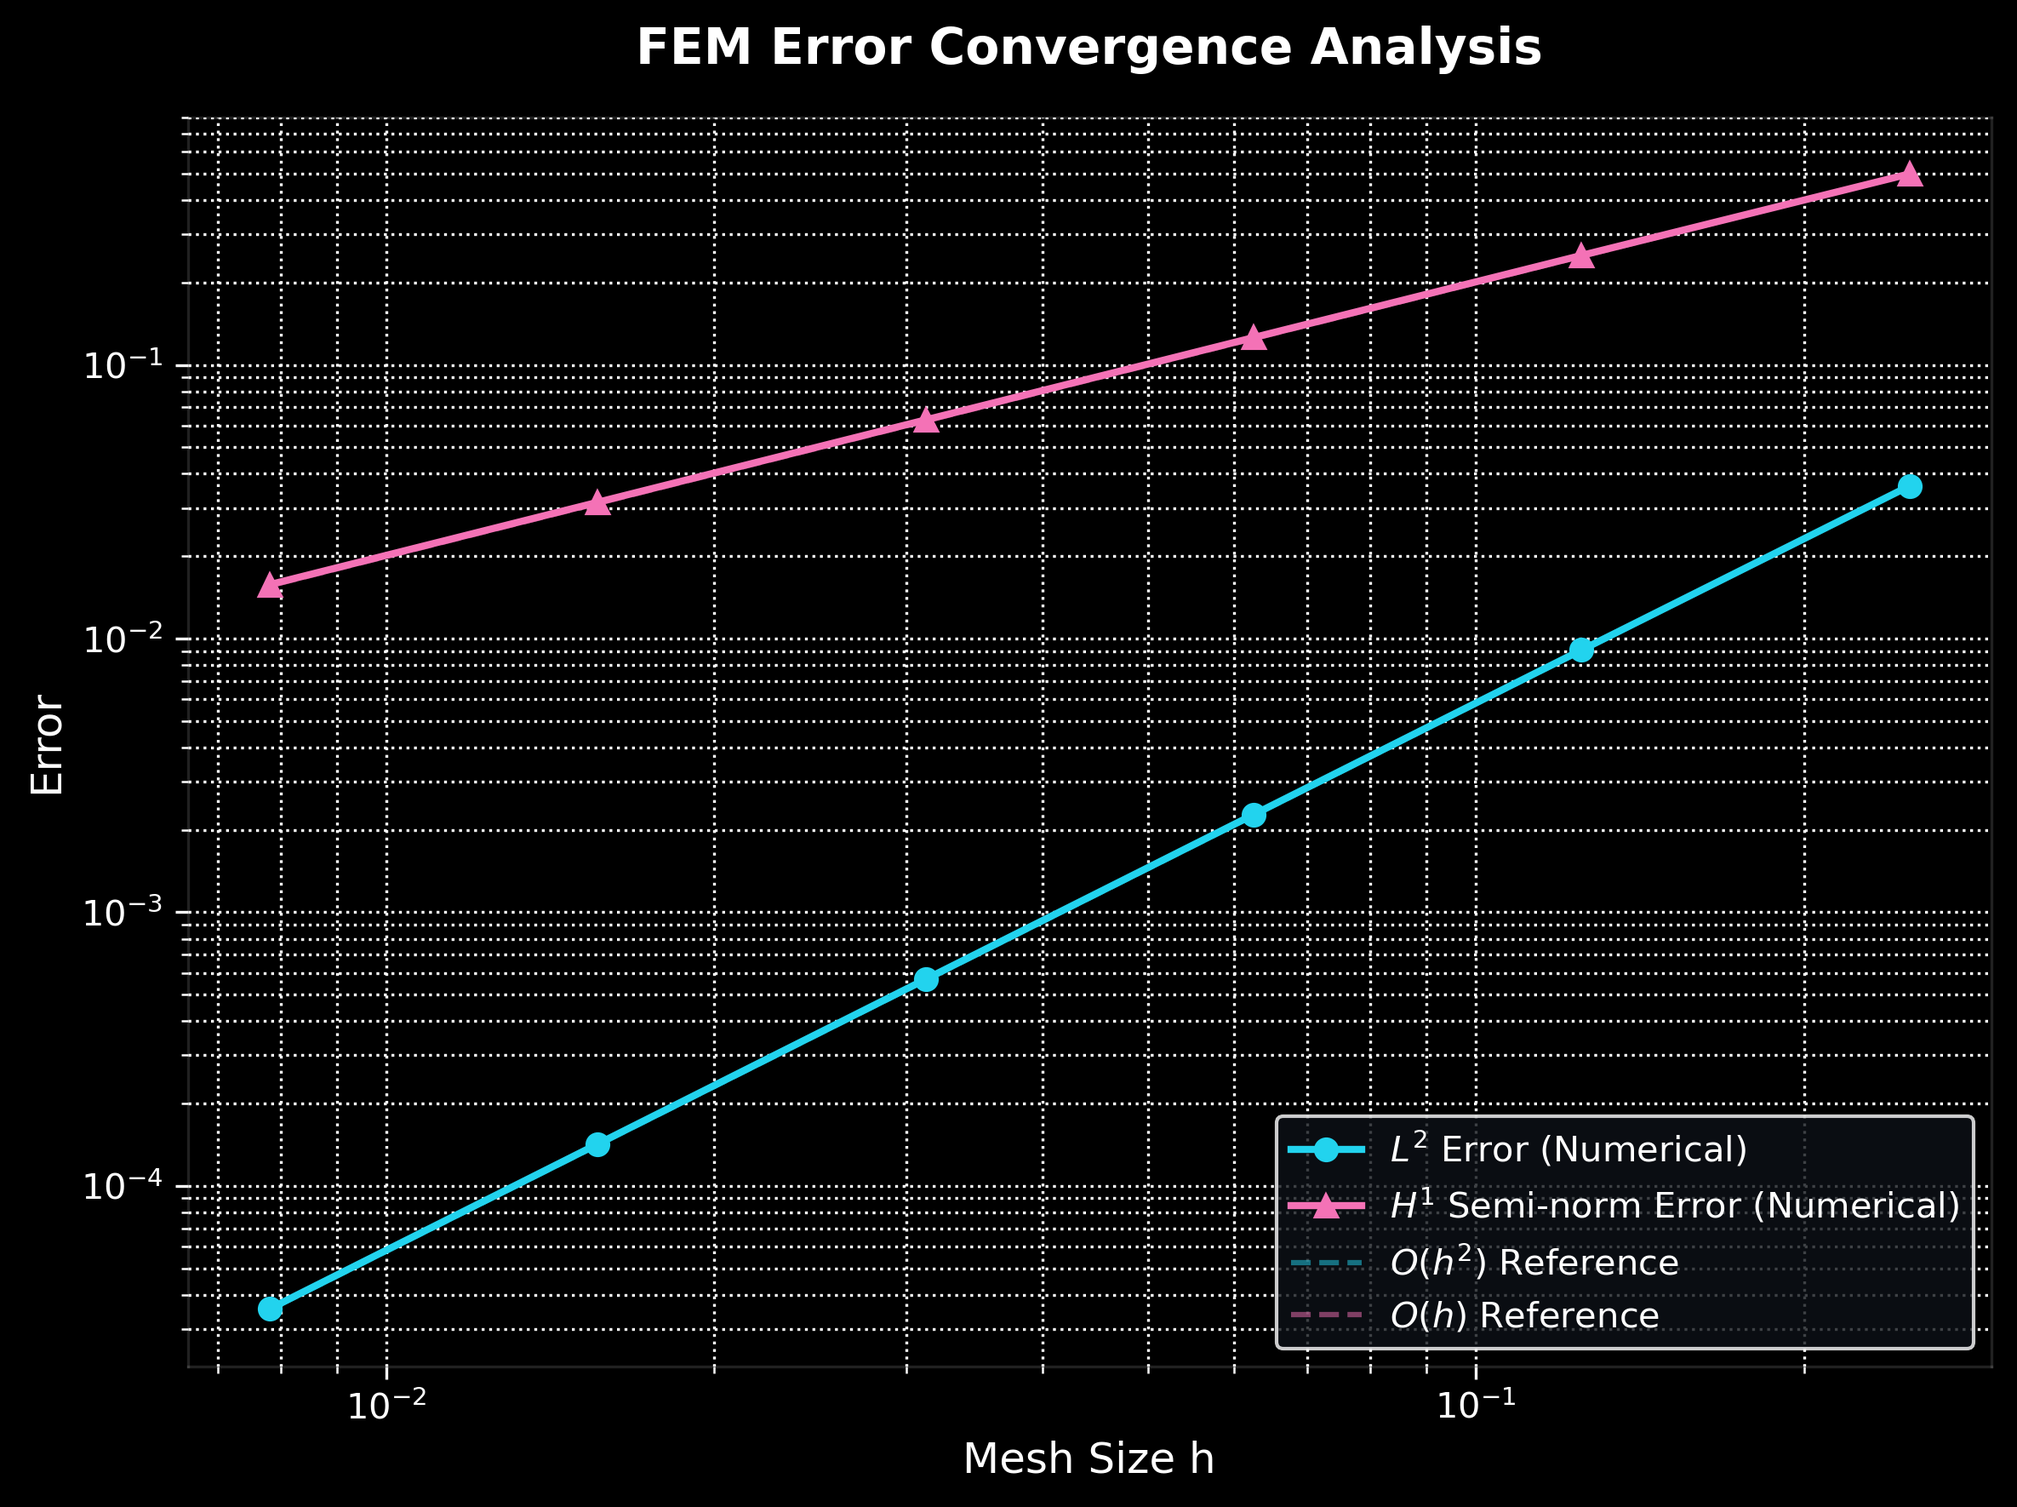
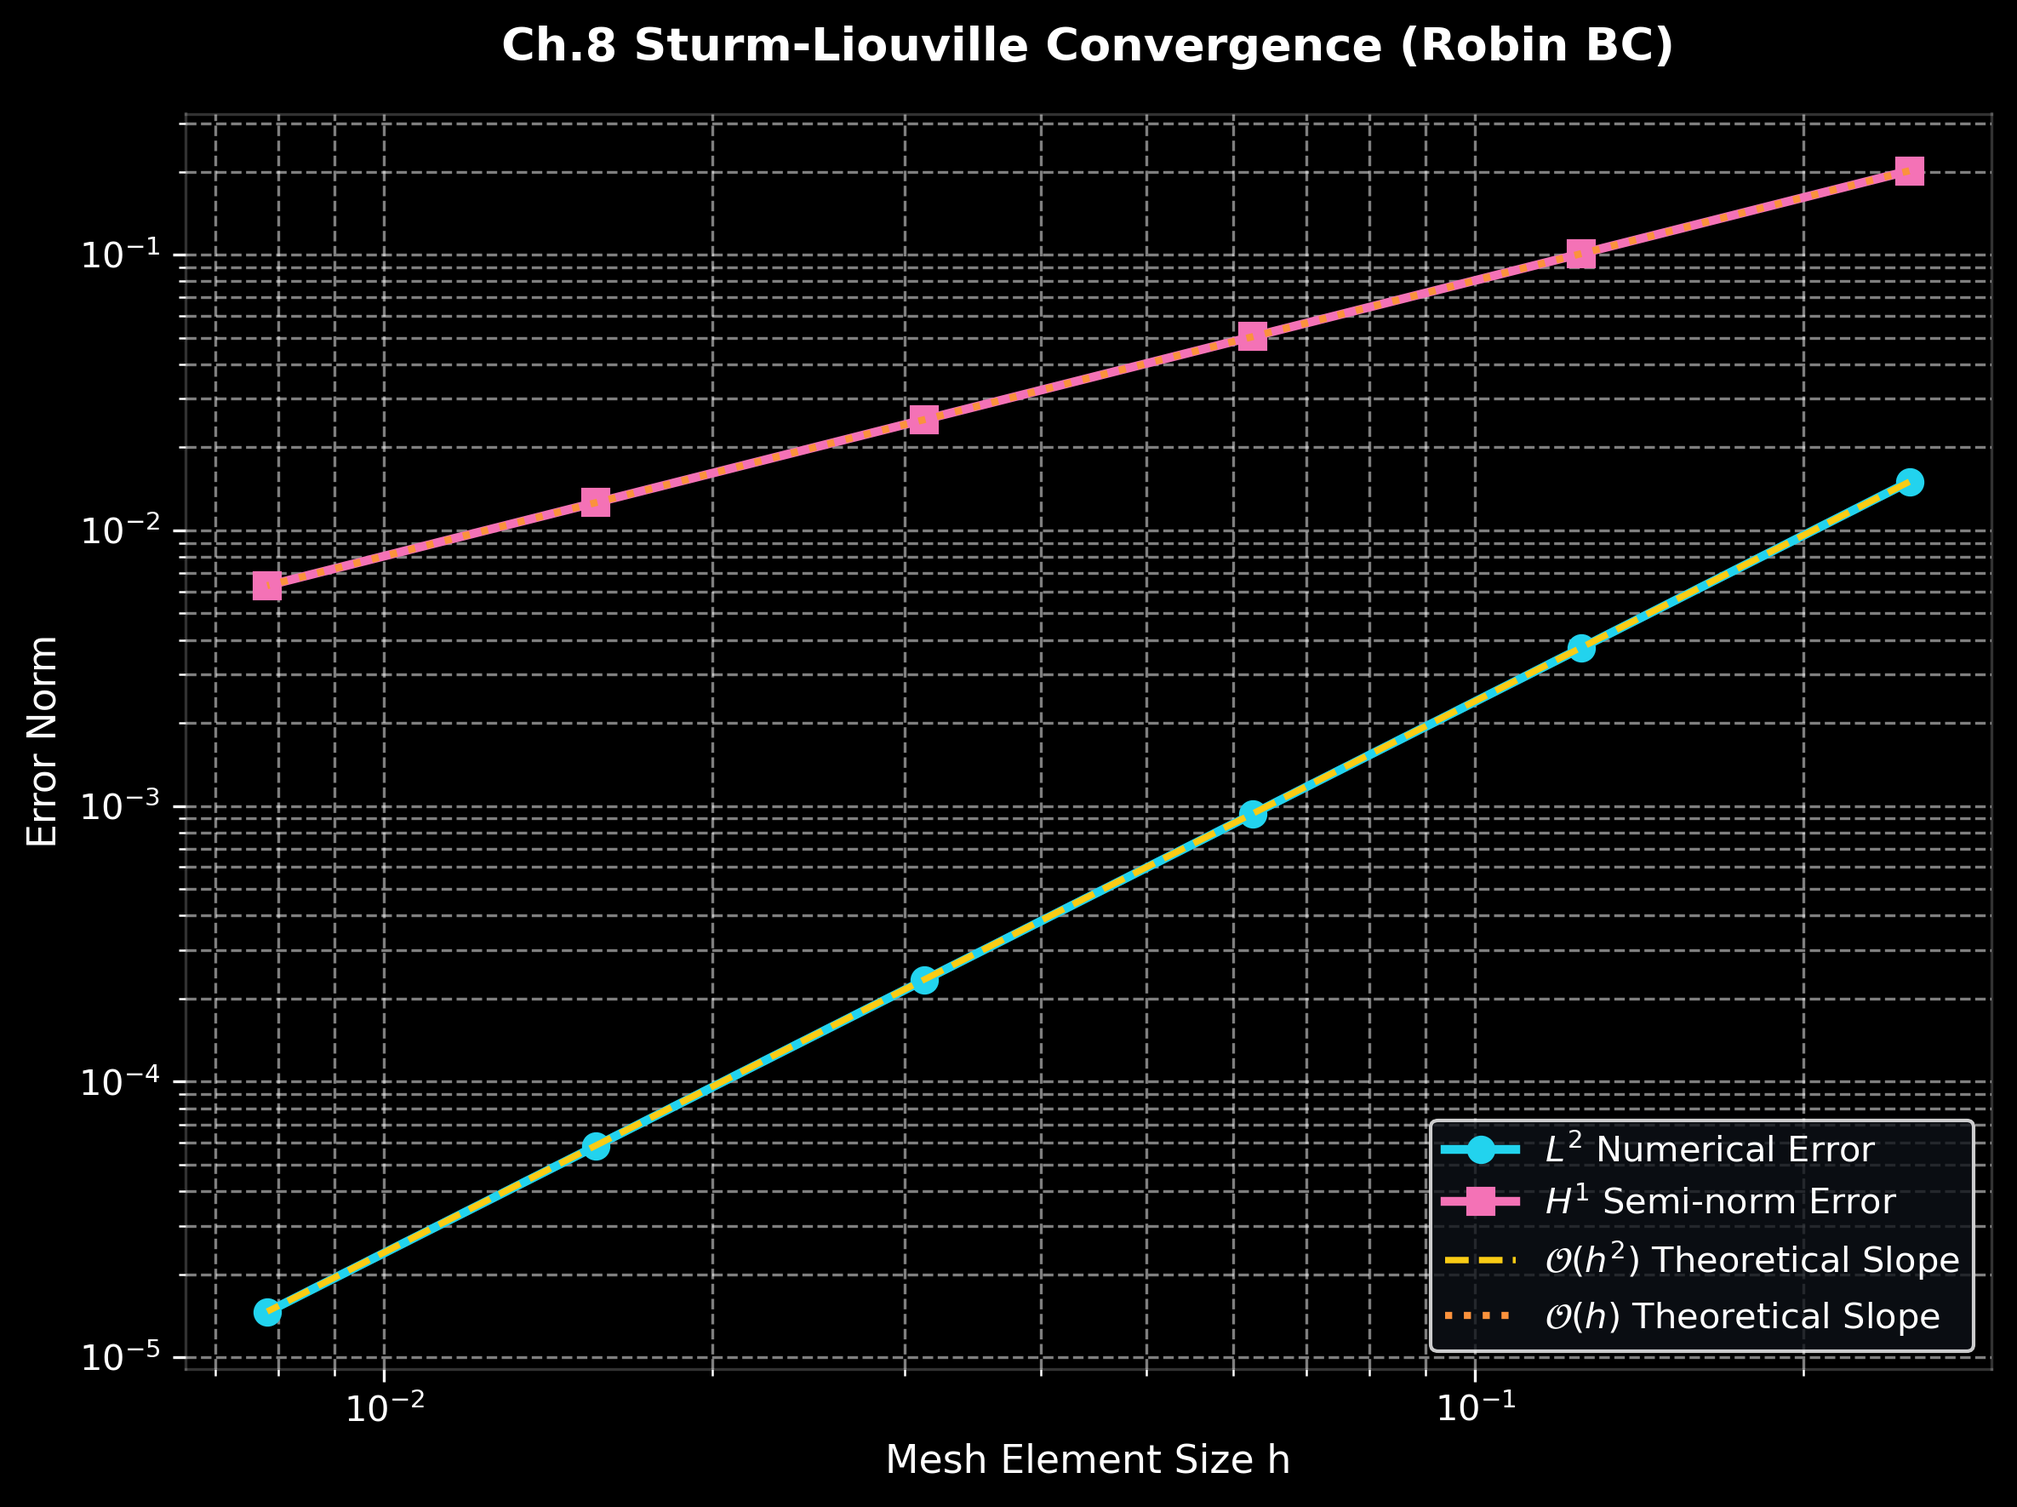
Fem 2

Changed region(s): [[0.0, 0.0, 0.9992, 0.9322], [0.4371, 0.9633, 0.6245, 0.9944]]

diff --git a/src/pages/FemChapter2.jsx b/src/pages/FemChapter2.jsx
@@ -1,0 +1,266 @@
+import React, { useState, useEffect, useRef } from 'react';
+import LogLayout from '../components/LogLayout';
+// Replace this with your actual image path, or comment it out if you don't have it yet.
+// import figureCh8 from '../assets/Fem_Ch8_SturmLiouville.png';
+const figureCh8 = "https://images.unsplash.com/photo-1509228468518-180dd4864904?auto=format&fit=crop&q=80&w=800"; 
+
+// =========================================================
+// 🛡 Static Resource Isolation District
+// NOTE: ALL backslashes inside these strings MUST be double escaped (\\) 
+// so they survive JS string parsing and reach KaTeX properly.
+// =========================================================
+const FORMULAS = {
+  generalAdvective: "-\\\\;\\varepsilon \\\\frac{d^2 u}{dx^2} + b(x) \\\\frac{du}{dx} = f(x), \\\\quad x \\\\in (a, b)",
+  pecletNum: "Pe = \\\\frac{|b| h}{2\\\\varepsilon} > 1",
+  supgForm: "a_{supg}(u, v) = a(u, v) + \\\\sum_e \\\\int_{K_e} \\\\delta \\\\left(b \\\\frac{dv}{dx}\\\\right) \\\\left(-\\\\varepsilon u'' + b u' - f\\\\right) dx"
+};
+
+const PYTHON_CODE_SUPG = [
+  "# Assembly for Advection-Diffusion Equation with SUPG Stabilization",
+  "Pe = (a * h) / (2.0 * eps)  # Local Element Peclet Number",
+  "xi = 1.0 / np.tanh(Pe) - 1.0 / Pe if Pe > 1e-6 else 0.0",
+  "delta = (h / (2.0 * a)) * xi  # Optimal SUPG Parameter",
+  "",
+  "for e in range(n):",
+  "    # Standard Diffusion & Advection Matrices",
+  "    k_diff = (eps / h) * np.array([[1.0, -1.0], [-1.0, 1.0]])",
+  "    k_adv  = (a / 2.0)  * np.array([[-1.0, 1.0], [-1.0, 1.0]])",
+  "    ",
+  "    # SUPG Artificial Diffusion Modification",
+  "    k_supg = (delta * a**2 / h) * np.array([[1.0, -1.0], [-1.0, 1.0]])",
+  "    ",
+  "    k_elem = k_diff + k_adv + k_supg",
+  "    f_elem = np.array([h/2, h/2]) + delta * a * np.array([-1.0, 1.0])",
+  "    # Global Assembly onto Sparse Matrix..."
+].join('\n');
+
+// =========================================================
+// 🛡 Error Boundary
+// =========================================================
+class ErrorBoundary extends React.Component {
+  constructor(props) { super(props); this.state = { hasError: false, error: null }; }
+  static getDerivedStateFromError(error) { return { hasError: true, error }; }
+  componentDidCatch(error, errorInfo) { console.error("Ch8 Page Error:", error, errorInfo); }
+  render() {
+    if (this.state.hasError) {
+      return (
+        <div className="min-h-screen bg-[#0d1117] text-white p-10 flex flex-col items-center justify-center font-mono">
+          <div className="bg-red-900/40 border border-red-500/50 p-6 rounded-xl max-w-xl w-full">
+            <h2 className="text-xl font-bold text-red-400 mb-2">⚠ Render Error in Ch.8 Module</h2>
+            <p className="text-xs text-red-200">{this.state.error?.toString()}</p>
+          </div>
+        </div>
+      );
+    }
+    return this.props.children;
+  }
+}
+
+// =========================================================
+// Safe LaTeX Renderers
+// =========================================================
+const MathDisplay = ({ tex, katexReady }) => {
+  const container = useRef(null);
+  useEffect(() => {
+    if (katexReady && window.katex && container.current) {
+      try { window.katex.render(tex, container.current, { throwOnError: false, displayMode: true }); }
+      catch (e) { console.error("KaTeX Error:", e); }
+    }
+  }, [tex, katexReady]);
+  return <div ref={container} className="my-6 py-4 bg-white/[0.02] rounded-lg border border-white/5 overflow-x-auto text-center"></div>;
+};
+
+const InlineMath = ({ tex, katexReady }) => {
+  const container = useRef(null);
+  useEffect(() => {
+    if (katexReady && window.katex && container.current) {
+      try { window.katex.render(tex, container.current, { throwOnError: false, displayMode: false }); }
+      catch (e) { console.error("KaTeX Inline Error:", e); }
+    }
+  }, [tex, katexReady]);
+  return <span ref={container} className="mx-1 font-serif text-cyan-200/90">{`$${tex}$`}</span>;
+};
+
+// =========================================================
+// Main Content
+// =========================================================
+const FemCh8LogContent = () => {
+  const [katexReady, setKatexReady] = useState(false);
+
+  useEffect(() => {
+    if (!document.getElementById('katex-cdn-css')) {
+      const link = document.createElement('link');
+      link.id = 'katex-cdn-css'; link.rel = 'stylesheet';
+      link.href = 'https://cdn.jsdelivr.net/npm/katex@0.16.9/dist/katex.min.css';
+      document.head.appendChild(link);
+    }
+    if (window.katex) {
+      setKatexReady(true);
+    } else if (!document.getElementById('katex-cdn-js')) {
+      const script = document.createElement('script');
+      script.id = 'katex-cdn-js';
+      script.src = 'https://cdn.jsdelivr.net/npm/katex@0.16.9/dist/katex.min.js';
+      script.onload = () => setKatexReady(true);
+      document.head.appendChild(script);
+    }
+  }, []);
+
+  return (
+    <LogLayout title="FEM 2: CRITICAL ISSUES IN 1D & STABILITY" category="NUMERICAL_ANALYSIS" date="2026-07-22">
+      <div className="space-y-12 font-mono text-white/80 text-sm md:text-base leading-relaxed max-w-5xl mx-auto pb-20">
+        
+        {/* Guest Author Signature */}
+        <div className="mb-8 flex items-center gap-4 text-cyan-400/80 text-xs tracking-[0.2em] uppercase font-bold border-l-2 border-cyan-500/50 pl-4 bg-cyan-500/5 py-2 rounded-r">
+          <span className="w-4 h-[1px] bg-cyan-500/50"></span>
+          <span>Data Contributor: BaruchChen</span>
+        </div>
+
+        {/* Executive Summary */}
+        <section className="space-y-4">
+          <h3 className="text-xl font-bold text-white tracking-widest uppercase border-b border-white/10 pb-2">0. Purpose of Chapter 8</h3>
+          <p>
+            While Chapter 1 established the basic Galerkin formulation for simple Poisson problems, <strong>Chapter 8 tackles the numerical bottlenecks encountered in realistic 1D continuous models</strong>.
+          </p>
+          <p>
+            Rather than lingering on standard Sturm–Liouville extensions, this post focuses on the two most critical milestones of 1D Finite Element Analysis: <strong>Higher-Order Elements (§8.3)</strong> and <strong>Advection-Dominated Instabilities & SUPG Stabilization (§8.4 - §8.5)</strong>.
+          </p>
+        </section>
+
+        {/* 1. Quick Recap of Sturm-Liouville & Robin BCs */}
+        <section className="space-y-4">
+          <h3 className="text-xl font-bold text-white tracking-widest uppercase border-b border-white/10 pb-2">1. Condensed Brief: Variable Coefficients & Boundary Integrals</h3>
+          <p>
+            Generalizing to variable conductivity <InlineMath tex="p(x)" katexReady={katexReady} /> and mixed Robin boundary conditions (<InlineMath tex="p(b)u'(b) + \gamma u(b) = g_R" katexReady={katexReady} />) requires two main additions to our code:
+          </p>
+          <ul className="list-disc list-inside space-y-1 text-xs md:text-sm text-white/70 pl-2 bg-white/[0.02] p-4 rounded-xl border border-white/5">
+            <li><strong>Numerical Quadrature:</strong> Evaluating <InlineMath tex="\int p(x) \phi_i' \phi_j' dx" katexReady={katexReady} /> via 2-point Gauss rules.</li>
+            <li><strong>Boundary Contributions:</strong> Appending <InlineMath tex="\gamma" katexReady={katexReady} /> directly to the last diagonal stiffness entry <InlineMath tex="A_{nn}" katexReady={katexReady} /> while preserving symmetry.</li>
+          </ul>
+        </section>
+
+        {/* 2. Higher-Order Elements */}
+        <section className="space-y-4">
+          <h3 className="text-xl font-bold text-white tracking-widest uppercase border-b border-white/10 pb-2">2. Higher-Order Elements (<InlineMath tex="P_2" katexReady={katexReady}/> Quadratic FE)</h3>
+          <p>
+            Standard linear elements (<InlineMath tex="P_1" katexReady={katexReady} />) yield <InlineMath tex="\mathcal{O}(h^2)" katexReady={katexReady} /> convergence in <InlineMath tex="L^2" katexReady={katexReady} />. To achieve higher accuracy without excessive mesh refinement, Chapter 8.3 introduces quadratic Lagrange elements (<InlineMath tex="P_2" katexReady={katexReady} />) with mid-side nodes:
+          </p>
+          
+          <div className="grid grid-cols-1 md:grid-cols-2 gap-4 my-6 text-xs tracking-widest">
+            <div className="p-4 bg-cyan-500/5 border border-cyan-500/20 rounded-lg">
+              <span className="text-cyan-400 font-bold block mb-2 uppercase">P1 Linear Elements</span>
+              <div className="space-y-2 text-white/70">
+                 <p>Interpolation Error: <InlineMath tex="\|u - u_h\|_{L^2} = \mathcal{O}(h^2)" katexReady={katexReady} /></p>
+                 <p>2 degrees of freedom per element.</p>
+              </div>
+            </div>
+            <div className="p-4 bg-pink-500/5 border border-pink-500/20 rounded-lg">
+              <span className="text-pink-400 font-bold block mb-2 uppercase">P2 Quadratic Elements</span>
+              <div className="space-y-2 text-white/70">
+                <p>Interpolation Error: <InlineMath tex="\|u - u_h\|_{L^2} = \mathcal{O}(h^3)" katexReady={katexReady} /></p>
+                <p>3 degrees of freedom per element (Includes mid-node).</p>
+              </div>
+            </div>
+          </div>
+        </section>
+
+        {/* 3. The Central Bottleneck: Advection-Diffusion Equations */}
+        <section className="space-y-4">
+          <h3 className="text-xl font-bold text-white tracking-widest uppercase border-b border-white/10 pb-2">3. The Core Bottleneck: Advection-Dominated Transport</h3>
+          <p>
+            When an first-order advection term <InlineMath tex="b(x) u'" katexReady={katexReady} /> is introduced into the diffusion equation:
+          </p>
+
+          <MathDisplay tex={FORMULAS.generalAdvective} katexReady={katexReady} />
+
+          <p>
+            The resulting bilinear form becomes <strong>asymmetric</strong> (<InlineMath tex="a(u,v) \neq a(v,u)" katexReady={katexReady} />). 
+            When diffusion is very small (<InlineMath tex="\varepsilon \ll 1" katexReady={katexReady} />), the system is advection-dominated, characterized by a high <strong>Element Peclet Number</strong>:
+          </p>
+
+          <MathDisplay tex={FORMULAS.pecletNum} katexReady={katexReady} />
+
+          <div className="p-5 bg-red-500/10 border border-red-500/30 rounded-lg text-xs leading-relaxed text-red-200 mt-6 shadow-[inset_0_0_20px_rgba(239,68,68,0.05)]">
+            <span className="text-red-400 font-black block mb-2 tracking-widest uppercase">⚠ GALERKIN BREAKDOWN:</span>
+            Standard Galerkin FEM uses symmetric test spaces (<InlineMath tex="v \in V_h" katexReady={katexReady} />). In the presence of strong boundary layers, standard Galerkin produces severe, non-physical <strong>node-to-node spurious oscillations</strong> across the entire domain!
+          </div>
+        </section>
+
+        {/* 4. SUPG Stabilization */}
+        <section className="space-y-4">
+          <h3 className="text-xl font-bold text-white tracking-widest uppercase border-b border-white/10 pb-2">4. Petrov-Galerkin Stabilization (SUPG Method)</h3>
+          <p>
+            To restore stability, the <strong>Streamline Upwind / Petrov-Galerkin (SUPG)</strong> method biases the test space along the flow direction by replacing test functions <InlineMath tex="v" katexReady={katexReady} /> with <InlineMath tex="v + \delta b \frac{dv}{dx}" katexReady={katexReady} />:
+          </p>
+
+          <MathDisplay tex={FORMULAS.supgForm} katexReady={katexReady} />
+
+          <p>
+            This effectively adds optimal <strong>artificial diffusion</strong> along streamlines without sacrificing consistency.
+          </p>
+
+          <div className="my-8 rounded-xl overflow-hidden border border-white/10 bg-[#0d1117] shadow-2xl">
+            <div className="px-4 py-2 bg-white/5 text-[10px] text-white/40 uppercase tracking-widest border-b border-white/5 flex items-center gap-2">
+              <span className="w-2 h-2 rounded-full bg-cyan-500/50"></span>
+              supg_stabilization_core.py
+            </div>
+            <pre className="p-6 text-[11px] md:text-xs text-cyan-50/80 overflow-x-auto font-mono leading-relaxed">
+              <code>{PYTHON_CODE_SUPG}</code>
+            </pre>
+          </div>
+
+          <figure className="my-8 overflow-hidden rounded-xl border border-white/10 bg-white/5 shadow-2xl">
+            <img 
+              src={figureCh8} 
+              alt="Advection Diffusion SUPG Stabilization Comparison" 
+              className="w-full object-cover opacity-90 hover:opacity-100 transition-opacity"
+            />
+            <figcaption className="p-4 text-center text-[10px] text-white/40 uppercase tracking-widest font-bold border-t border-white/5">
+              Fig 1. Advection-Dominated Transport (<InlineMath tex="\varepsilon = 0.008" katexReady={katexReady}/>): Standard Galerkin Oscillations (Pink) vs. SUPG Upwind Stabilization (Cyan).
+            </figcaption>
+          </figure>
+        </section>
+
+        {/* Conclusion */}
+        <section className="space-y-4">
+          <h3 className="text-xl font-bold text-white tracking-widest uppercase border-b border-white/10 pb-2">5. Chapter 8 Summary & 2D Outlook</h3>
+          <p>
+            Chapter 8 transforms FEM from an academic tool for self-adjoint Poisson problems into a robust framework capable of handling:
+          </p>
+          <ul className="list-decimal list-inside space-y-2 text-xs md:text-sm text-white/70 pl-2 bg-white/[0.02] p-6 rounded-xl border border-white/5 mt-4">
+            <li>Mixed Robin boundary integration without losing matrix symmetry.</li>
+            <li>Higher-order <InlineMath tex="P_2" katexReady={katexReady}/> elements for quadratic accuracy.</li>
+            <li>SUPG stabilization to eliminate advective spurious oscillations.</li>
+          </ul>
+          <p className="mt-6 border-l-2 border-cyan-500/50 pl-4 py-1 text-white/90">
+            With 1D edge cases, high-order elements, and advective stabilization fully solved, we are ready to step into <strong>Part II: 2D Finite Element Formulations</strong>.
+          </p>
+        </section>
+
+        {/* Outro */}
+        <div className="py-16 border-y border-white/5 text-center space-y-8 mt-16">
+          <p className="text-sm text-white/30 tracking-[0.4em] uppercase font-light italic">
+            // End_Transmission: Chapter 8 Subsystem Integrated
+          </p>
+          <div className="inline-block px-10 py-5 bg-cyan-600/10 border border-cyan-500/30 text-cyan-400 text-[11px] tracking-[0.6em] uppercase shadow-[0_0_40px_rgba(34,211,238,0.1)]">
+            FE Method in One Space Dimension Finalized
+          </div>
+          
+          {/* Guest Author Terminal Signature */}
+          <p className="text-xs text-white/40 tracking-[0.3em] uppercase mt-6 flex items-center justify-center gap-2">
+            <span className="w-2 h-2 bg-cyan-500/50 rounded-full animate-ping"></span>
+            Signal Originated By: BaruchChen
+          </p>
+        </div>
+
+      </div>
+    </LogLayout>
+  );
+};
+
+export default function FemCh8LogWrapped() {
+  return (
+    <ErrorBoundary>
+      <FemCh8LogContent />
+    </ErrorBoundary>
+  );
+}

diff --git a/src/config/posts.js b/src/config/posts.js
@@ -7,10 +7,22 @@ import ChaosLog_4 from '../pages/ChaosLog_4';
 import ChaosLog_5 from '../pages/ChaosLog_5';
 import BlackHoleLog from '../pages/BlackHoleLog';
 import FemChapter1 from '../pages/FemChapter1';
+import FemChapter2 from '../pages/FemChapter2';
+
 
 
 
 export const POSTS = [
+{
+id: 'FemChapter2', 
+title: 'FemChapter2',
+category: 'GUEST_RESEARCH',
+date: '2026-07-23',
+description: 'FemChapter 2.',
+component: FemChapter2 
+},
+
+
 {
 id: 'FemChapter1', 
 title: 'FemChapter1',
